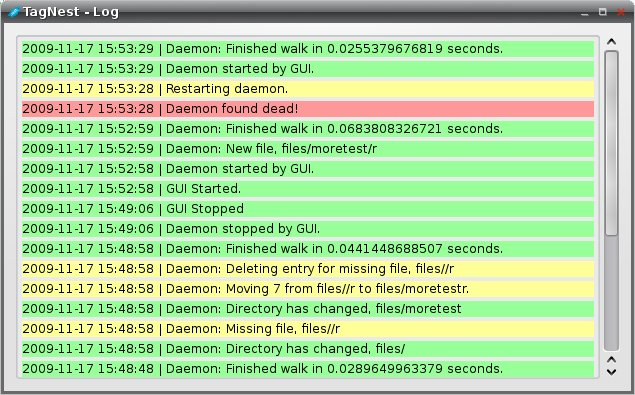
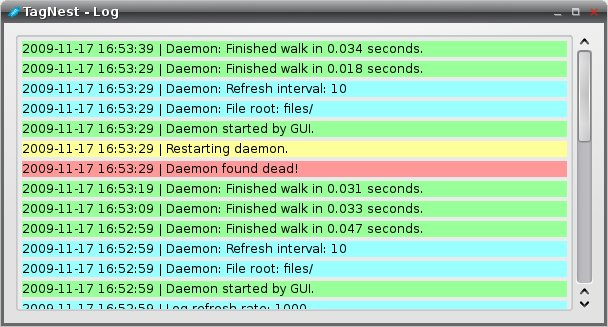
Added a shared config file. More logging work too.

diff --git a/tagnest_gui.py b/tagnest_gui.py
@@ -26,17 +26,17 @@ THE SOFTWARE.
 
 
 import sys
-from PyQt4 import QtCore, QtGui
-
 from multiprocessing import Process, freeze_support
-
+import ConfigParser
 import time
+
+from PyQt4 import QtCore, QtGui
 
 import tagnest_daemon
 from tagnest import TagNestUtil
 
 def daemon ():
-	tagnest_daemon.run()
+	tagnest_daemon.run( config )
 
 # Base window that doesn't exit the app when closed.
 class BaseWindow ( QtGui.QWidget ):
@@ -64,9 +64,7 @@ class LogWindow ( BaseWindow ):
 		self.hide()
 
 		self.setWindowTitle( "TagNest - Log" );
-		self.resize( 500, 300 );
-
-		self.util = TagNestUtil( "tagnest.db3" ) # TODO: Config this?
+		self.resize( 600, 300 );
 
 		vbw = VBoxWrapper()
 		vbw.show()
@@ -93,16 +91,18 @@ class LogWindow ( BaseWindow ):
 
 	def update_logs ( self, force=False ):
 		if force or self.isVisible():
-			entries = self.util.get_log_entries( 20, self.last_log )
+			entries = util.get_log_entries( 20, self.last_log )
 			entries.reverse()
 			for entry in entries:
 				label = QtGui.QLabel( "%s | %s" % ( time.strftime( '%Y-%m-%d %H:%M:%S', time.localtime( entry[0] ) ), entry[1] ) )
 
-				if entry[2] == self.util.LOG_INFO:
+				if entry[2] == util.LOG_INFO:
+					label.setStyleSheet( "QWidget { background-color: #99FFFF }" )
+				elif entry[2] == util.LOG_EVENT:
 					label.setStyleSheet( "QWidget { background-color: #99FF99 }" )
-				elif entry[2] == self.util.LOG_WARN:
+				elif entry[2] == util.LOG_WARN:
 					label.setStyleSheet( "QWidget { background-color: #FFFF99 }" )
-				elif entry[2] == self.util.LOG_FATAL:
+				elif entry[2] == util.LOG_FATAL:
 					label.setStyleSheet( "QWidget { background-color: #FF9999 }" )
 				else:
 					label.setStyleSheet( "QWidget { background-color: #FFCC99 }" )
@@ -128,8 +128,6 @@ class NewWindow ( BaseWindow ):
 		self.setWindowTitle( "TagNest - New" );
 		self.resize( 500, 300 );
 
-		self.util = TagNestUtil( "tagnest.db3" ) # TODO: Config this?
-
 		vbw = VBoxWrapper()
 		vbw.show()
 
@@ -151,7 +149,7 @@ class NewWindow ( BaseWindow ):
 
 	def update_list ( self, force=False ):
 		if force or self.isVisible():
-			print "update list"
+			pass
 			#self.scroll.widget().box().insertWidget( 0, label );
 
 class TagNest( QtGui.QApplication ):
@@ -162,9 +160,10 @@ class TagNest( QtGui.QApplication ):
 		self.setWindowIcon( QtGui.QIcon( 'resource/icon.png' ) )
 
 		self.daemon = None
-		self.util = TagNestUtil( "tagnest.db3" ) # TODO: Config this?
 
-		self.util.log( "GUI Started.", self.util.LOG_INFO )
+		util.log( "GUI Started.", util.LOG_EVENT )
+		util.log( "File root: %s" % ( config.get( 'Shared', 'fileroot' ) ), util.LOG_INFO )
+		util.log( "Log refresh rate: %s" % ( config.getint( 'GUI', 'logrefresh' ) ), util.LOG_INFO )
 
 		self.log_window = LogWindow()
 
@@ -194,8 +193,8 @@ class TagNest( QtGui.QApplication ):
 
 	def check_daemon ( self ):
 		if None != self.daemon and False == self.daemon.is_alive():
-			self.util.log( "Daemon found dead!", self.util.LOG_FATAL )
-			self.util.log( "Restarting daemon.", self.util.LOG_WARN )
+			util.log( "Daemon found dead!", util.LOG_FATAL )
+			util.log( "Restarting daemon.", util.LOG_WARN )
 			self.daemon = None
 			self.start_daemon()
 
@@ -209,21 +208,27 @@ class TagNest( QtGui.QApplication ):
 		if None != self.daemon:
 			self.daemon.terminate()
 			self.daemon = None
-			self.util.log( "Daemon stopped by GUI.", self.util.LOG_INFO )
+			util.log( "Daemon stopped by GUI.", util.LOG_EVENT )
 		self.daemon_control.setText( "Start Daemon" )
 
 	def start_daemon ( self ):
 		if None == self.daemon:
 			self.daemon = Process( target=daemon )
 			self.daemon.start()
-			self.util.log( "Daemon started by GUI.", self.util.LOG_INFO )
+			util.log( "Daemon started by GUI.", util.LOG_EVENT )
 		self.daemon_control.setText( "Stop Daemon" )
 
 	def quit_clean( self ):
 		self.stop_daemon()
-		self.util.log( "GUI Stopped", self.util.LOG_INFO )
+		util.log( "GUI Stopped", util.LOG_EVENT )
 		self.quit()
 
 if __name__ == "__main__":
+
+	config = ConfigParser.RawConfigParser()
+	config.read( 'tagnest.config' )
+
+	util = TagNestUtil( config.get( 'Shared', 'database' ) )
+
 	app = TagNest( sys.argv );
 	sys.exit( app.exec_() );

diff --git a/tagnest_daemon.py b/tagnest_daemon.py
@@ -29,17 +29,22 @@ THE SOFTWARE.
 from tagnest import TagNestUtil
 import time
 import os
+import ConfigParser
 
+def run ( config ):
 
-def run():
-	util = TagNestUtil( "tagnest.db3" ) # TODO: Config this?
+	util = TagNestUtil( config.get( 'Shared', 'database' ) )
+
+	util.log( "Daemon: File root: %s" % ( config.get( 'Shared', 'fileroot' ) ), util.LOG_INFO )
+	util.log( "Daemon: Refresh interval: %s" % ( config.getint( 'Daemon', 'Sleep' ) ), util.LOG_INFO )
+
 	while True:
 		start_time = time.time()
-		for path, dirs, files in os.walk( 'files/' ):
+		for path, dirs, files in os.walk( config.get( 'Shared', 'fileroot' ) ):
 			dh = util.hash_dir( files, dirs )
 			ch = util.get_dir_hash( path )
 			if dh != ch:
-				util.log( "Daemon: Directory has changed, " + path, util.LOG_INFO )
+				util.log( "Daemon: Directory has changed, " + path, util.LOG_EVENT )
 				util.set_dir_hash( path, dh )
 
 			FilesInDir = util.get_files_in_dir( path )
@@ -53,7 +58,7 @@ def run():
 				if '' == ch:
 					matches = util.find_file_matches( file, fh )
 					if None == matches:
-						util.log( "Daemon: New file, %s/%s" % ( path, file ), util.LOG_INFO )
+						util.log( "Daemon: New file, %s/%s" % ( path, file ), util.LOG_EVENT )
 						util.new_file( file, path, fh )
 					else:
 						for pmatch in matches:
@@ -79,9 +84,11 @@ def run():
 				util.touch_file( file, path )
 
 		end_time = time.time()
-		util.log( "Daemon: Finished walk in %s seconds." % ( end_time - start_time ), util.LOG_INFO )
+		util.log( "Daemon: Finished walk in %0.3f seconds." % ( end_time - start_time ), util.LOG_EVENT )
 
-		time.sleep( 60 ) # TODO: Config this
+		time.sleep( config.getint( 'Daemon', 'Sleep' ) )
 
 if __name__ == "__main__":
-	run()
+	config = ConfigParser.RawConfigParser()
+	config.read( 'tagnest.config' )
+	run( config )

diff --git a/tagnest.py b/tagnest.py
@@ -34,7 +34,8 @@ class TagNestUtil:
 		self.connection = sqlite3.connect( database )
 		self.cursor = self.connection.cursor()
 
-		self.LOG_INFO = 1
+		self.LOG_INFO = 0
+		self.LOG_EVENT = 1
 		self.LOG_WARN = 2
 		self.LOG_FATAL = 3
 
